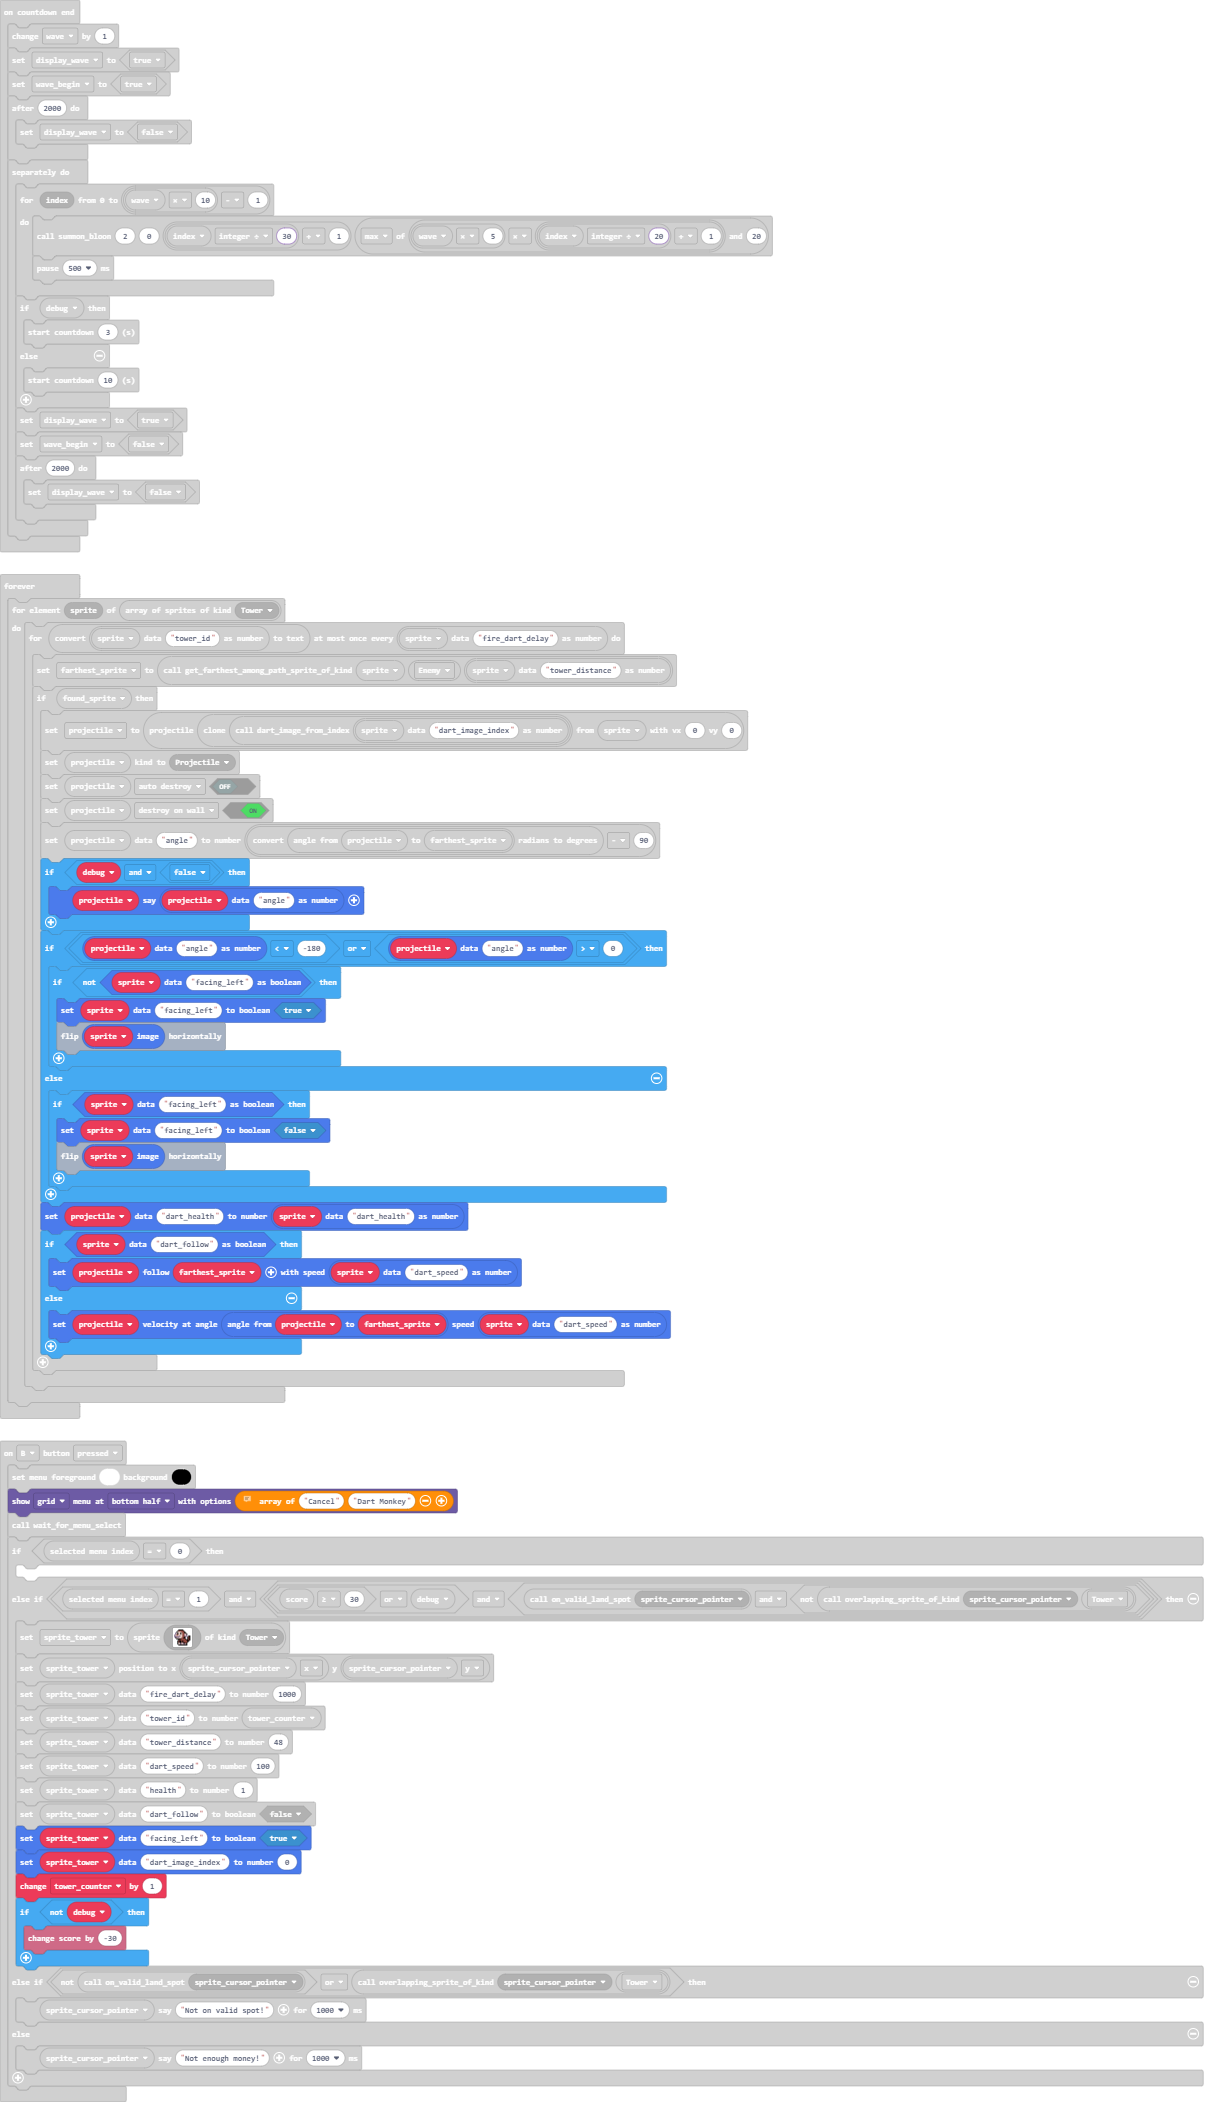
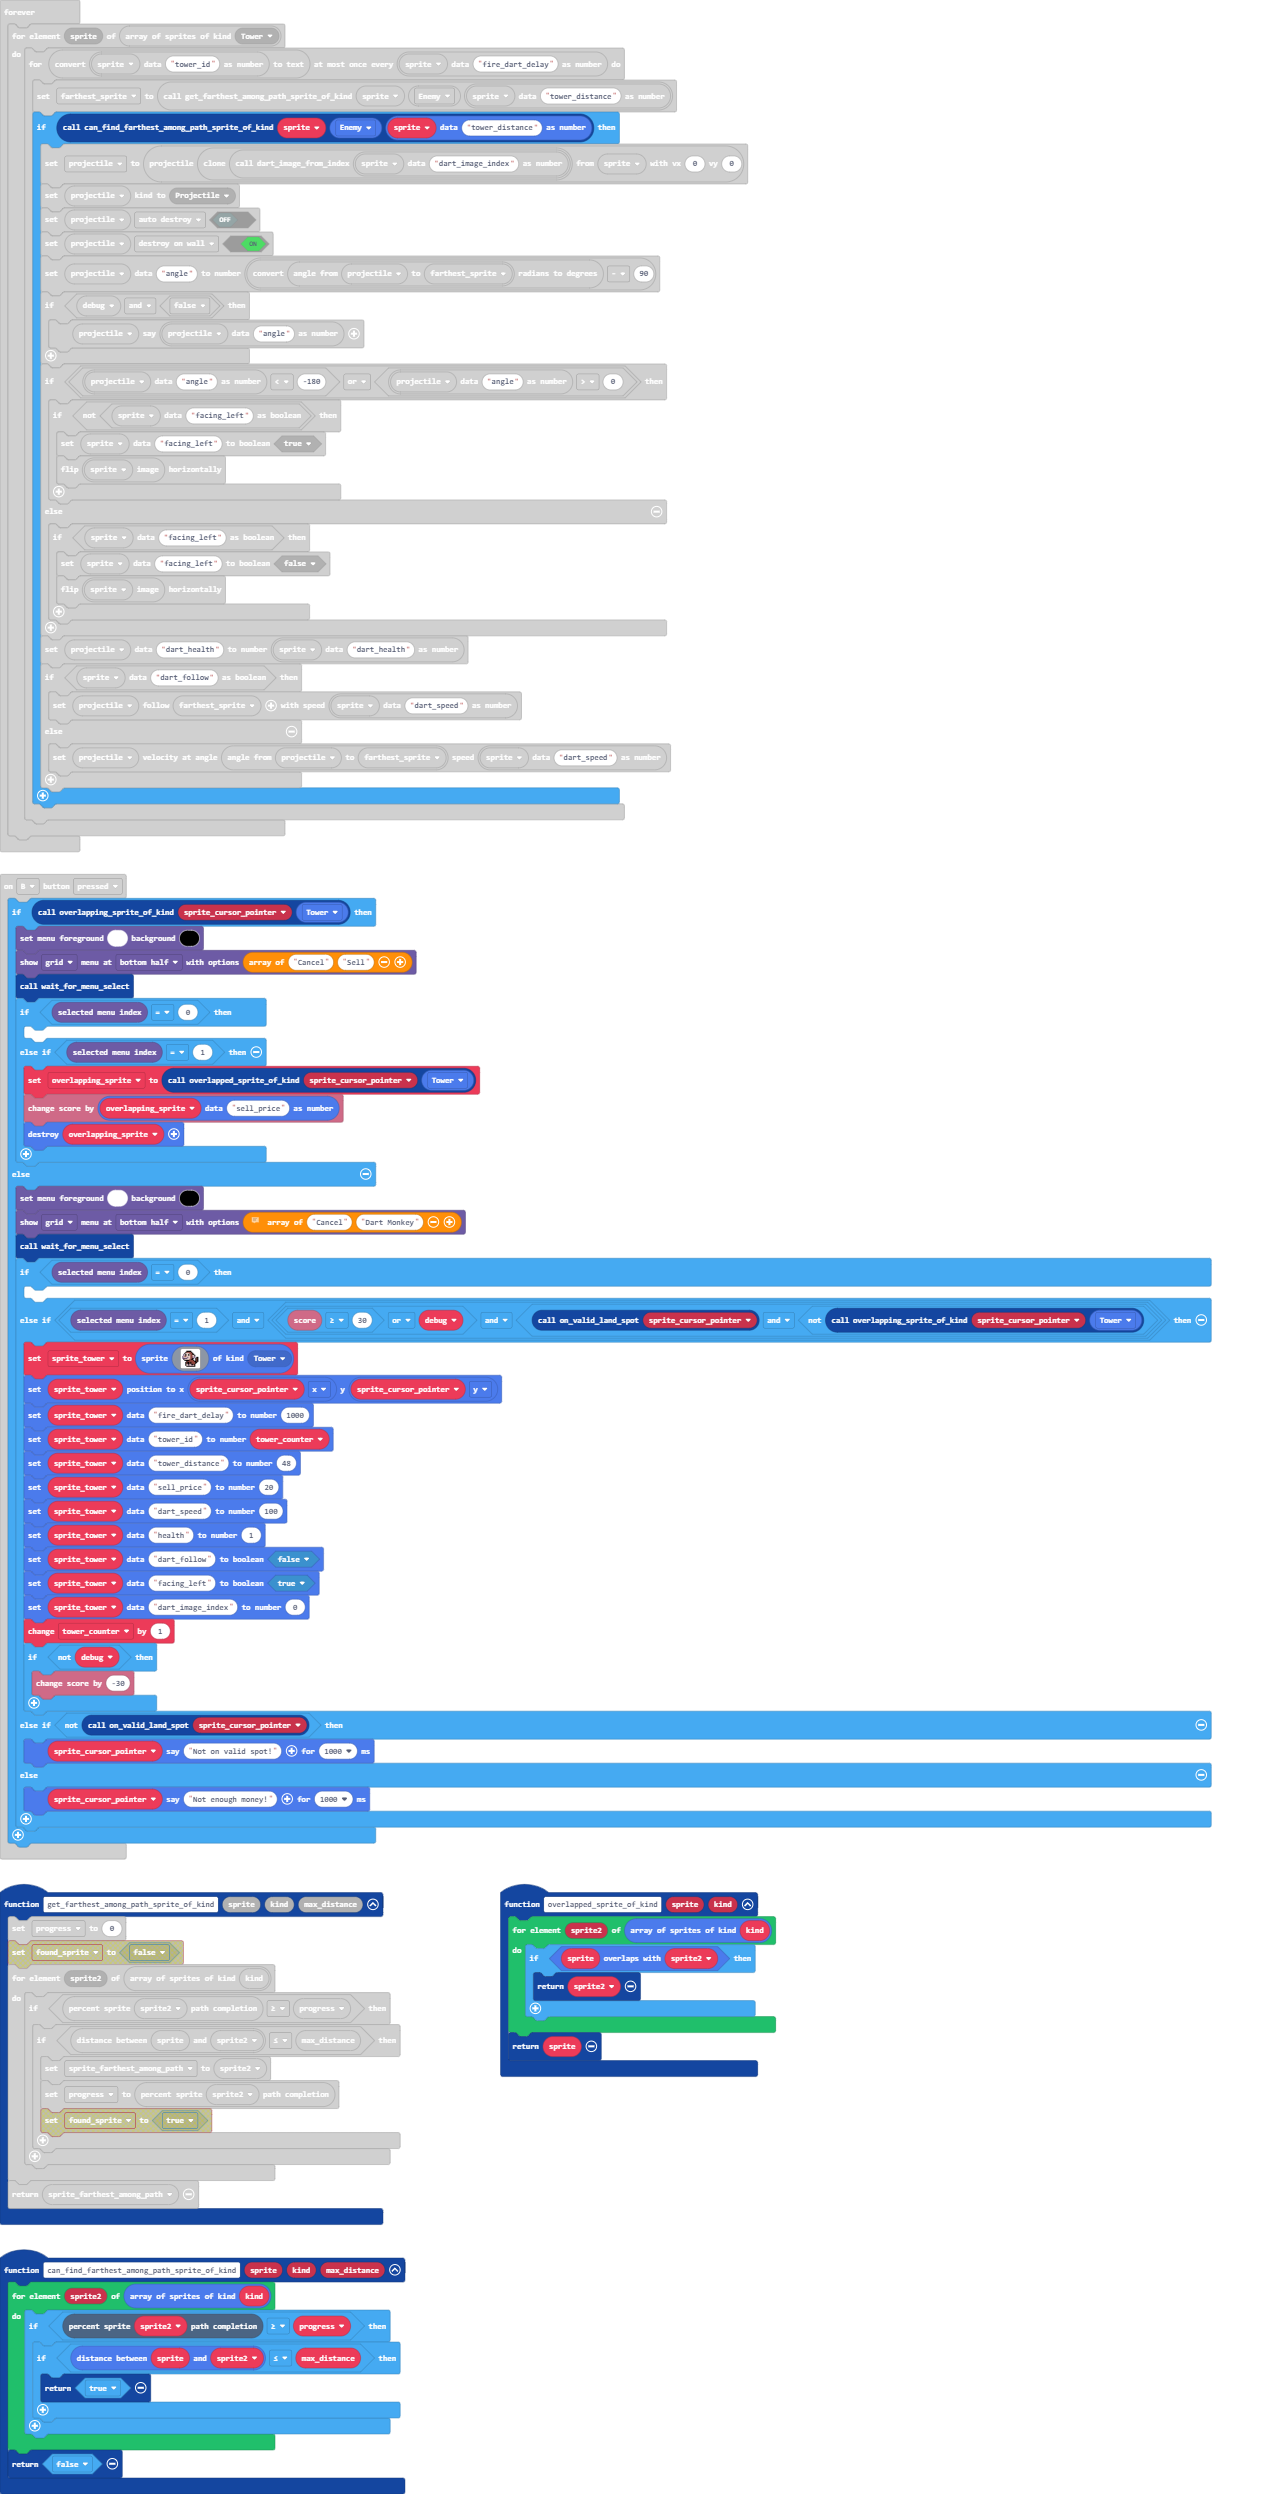
Sell your towers!

diff --git a/main.ts b/main.ts
@@ -31,48 +31,62 @@ function overlapping_sprite_of_kind (sprite: Sprite, kind: number) {
     return false
 }
 controller.B.onEvent(ControllerButtonEvent.Pressed, function () {
-    blockMenu.setColors(1, 15)
-    // https://bloons.fandom.com/wiki/Tower_price_lists#Bloons_TD_5:~:text=%24.-,Bloons%20TD%205
-    blockMenu.showMenu(["Cancel", "Dart Monkey"], MenuStyle.Grid, MenuLocation.BottomHalf)
-    wait_for_menu_select()
-    if (blockMenu.selectedMenuIndex() == 0) {
-    	
-    } else if (blockMenu.selectedMenuIndex() == 1 && ((info.score() >= 30 || debug) && (on_valid_land_spot(sprite_cursor_pointer) && !(overlapping_sprite_of_kind(sprite_cursor_pointer, SpriteKind.Tower))))) {
-        sprite_tower = sprites.create(img`
-            . . . . f f f f f . . . . . . . 
-            . . . f e e e e e f . . . . . . 
-            . . f d d d d e e e f . . . . . 
-            . c d f d d f d e e f f . . . . 
-            . c d f d d f d e e d d f . . . 
-            c d e e d d d d e e b d c . . . 
-            c d d d d c d d e e b d c . f f 
-            c c c c c d d d e e f c . f e f 
-            . f d d d d d e e f f . . f e f 
-            . . f f f f f e e e e f . f e f 
-            . . . . f e e e e e e e f f e f 
-            . . . f e f f e f e e e e f f . 
-            . . . f e f f e f e e e e f . . 
-            . . . f d b f d b f f e f . . . 
-            . . . f d d c d d b b d f . . . 
-            . . . . f f f f f f f f f . . . 
-            `, SpriteKind.Tower)
-        sprite_tower.setPosition(sprite_cursor_pointer.x, sprite_cursor_pointer.y)
-        sprites.setDataNumber(sprite_tower, "fire_dart_delay", 1000)
-        sprites.setDataNumber(sprite_tower, "tower_id", tower_counter)
-        sprites.setDataNumber(sprite_tower, "tower_distance", 48)
-        sprites.setDataNumber(sprite_tower, "dart_speed", 100)
-        sprites.setDataNumber(sprite_tower, "health", 1)
-        sprites.setDataBoolean(sprite_tower, "dart_follow", false)
-        sprites.setDataBoolean(sprite_tower, "facing_left", true)
-        sprites.setDataNumber(sprite_tower, "dart_image_index", 0)
-        tower_counter += 1
-        if (!(debug)) {
-            info.changeScoreBy(-30)
+    if (overlapping_sprite_of_kind(sprite_cursor_pointer, SpriteKind.Tower)) {
+        blockMenu.setColors(1, 15)
+        blockMenu.showMenu(["Cancel", "Sell"], MenuStyle.Grid, MenuLocation.BottomHalf)
+        wait_for_menu_select()
+        if (blockMenu.selectedMenuIndex() == 0) {
+        	
+        } else if (blockMenu.selectedMenuIndex() == 1) {
+            overlapping_sprite = overlapped_sprite_of_kind(sprite_cursor_pointer, SpriteKind.Tower)
+            info.changeScoreBy(sprites.readDataNumber(overlapping_sprite, "sell_price"))
+            overlapping_sprite.destroy()
         }
-    } else if (!(on_valid_land_spot(sprite_cursor_pointer)) || overlapping_sprite_of_kind(sprite_cursor_pointer, SpriteKind.Tower)) {
-        sprite_cursor_pointer.say("Not on valid spot!", 1000)
     } else {
-        sprite_cursor_pointer.say("Not enough money!", 1000)
+        blockMenu.setColors(1, 15)
+        // https://bloons.fandom.com/wiki/Tower_price_lists#Bloons_TD_5:~:text=%24.-,Bloons%20TD%205
+        blockMenu.showMenu(["Cancel", "Dart Monkey"], MenuStyle.Grid, MenuLocation.BottomHalf)
+        wait_for_menu_select()
+        if (blockMenu.selectedMenuIndex() == 0) {
+        	
+        } else if (blockMenu.selectedMenuIndex() == 1 && ((info.score() >= 30 || debug) && (on_valid_land_spot(sprite_cursor_pointer) && !(overlapping_sprite_of_kind(sprite_cursor_pointer, SpriteKind.Tower))))) {
+            sprite_tower = sprites.create(img`
+                . . . . f f f f f . . . . . . . 
+                . . . f e e e e e f . . . . . . 
+                . . f d d d d e e e f . . . . . 
+                . c d f d d f d e e f f . . . . 
+                . c d f d d f d e e d d f . . . 
+                c d e e d d d d e e b d c . . . 
+                c d d d d c d d e e b d c . f f 
+                c c c c c d d d e e f c . f e f 
+                . f d d d d d e e f f . . f e f 
+                . . f f f f f e e e e f . f e f 
+                . . . . f e e e e e e e f f e f 
+                . . . f e f f e f e e e e f f . 
+                . . . f e f f e f e e e e f . . 
+                . . . f d b f d b f f e f . . . 
+                . . . f d d c d d b b d f . . . 
+                . . . . f f f f f f f f f . . . 
+                `, SpriteKind.Tower)
+            sprite_tower.setPosition(sprite_cursor_pointer.x, sprite_cursor_pointer.y)
+            sprites.setDataNumber(sprite_tower, "fire_dart_delay", 1000)
+            sprites.setDataNumber(sprite_tower, "tower_id", tower_counter)
+            sprites.setDataNumber(sprite_tower, "tower_distance", 48)
+            sprites.setDataNumber(sprite_tower, "sell_price", 20)
+            sprites.setDataNumber(sprite_tower, "dart_speed", 100)
+            sprites.setDataNumber(sprite_tower, "health", 1)
+            sprites.setDataBoolean(sprite_tower, "dart_follow", false)
+            sprites.setDataBoolean(sprite_tower, "facing_left", true)
+            sprites.setDataNumber(sprite_tower, "dart_image_index", 0)
+            tower_counter += 1
+            if (!(debug)) {
+                info.changeScoreBy(-30)
+            }
+        } else if (!(on_valid_land_spot(sprite_cursor_pointer))) {
+            sprite_cursor_pointer.say("Not on valid spot!", 1000)
+        } else {
+            sprite_cursor_pointer.say("Not enough money!", 1000)
+        }
     }
 })
 spriteutils.createRenderable(200, function (screen2) {
@@ -85,6 +99,14 @@ spriteutils.createRenderable(200, function (screen2) {
         }
     }
 })
+function overlapped_sprite_of_kind (sprite: Sprite, kind: number) {
+    for (let sprite2 of sprites.allOfKind(kind)) {
+        if (sprite.overlapsWith(sprite2)) {
+            return sprite2
+        }
+    }
+    return sprite
+}
 info.onCountdownEnd(function () {
     wave += 1
     display_wave = true
@@ -337,17 +359,25 @@ function set_ui_icons () {
 }
 function get_farthest_among_path_sprite_of_kind (sprite: Sprite, kind: number, max_distance: number) {
     progress = 0
-    found_sprite = false
     for (let sprite2 of sprites.allOfKind(kind)) {
         if (scene.spritePercentPathCompleted(sprite2) >= progress) {
             if (spriteutils.distanceBetween(sprite, sprite2) <= max_distance) {
                 sprite_farthest_among_path = sprite2
                 progress = scene.spritePercentPathCompleted(sprite2)
-                found_sprite = true
             }
         }
     }
     return sprite_farthest_among_path
+}
+function can_find_farthest_among_path_sprite_of_kind (sprite: Sprite, kind: number, max_distance: number) {
+    for (let sprite2 of sprites.allOfKind(kind)) {
+        if (scene.spritePercentPathCompleted(sprite2) >= progress) {
+            if (spriteutils.distanceBetween(sprite, sprite2) <= max_distance) {
+                return true
+            }
+        }
+    }
+    return false
 }
 function summon_bloon (col: number, row: number, health: number, speed: number) {
     sprite_bloon = sprites.create(bloon_image_from_health(health), SpriteKind.Enemy)
@@ -376,7 +406,6 @@ let projectile: Sprite = null
 let farthest_sprite: Sprite = null
 let sprite_bloon: Sprite = null
 let sprite_farthest_among_path: Sprite = null
-let found_sprite = false
 let progress = 0
 let bloon_images: Image[] = []
 let dart_images: Image[] = []
@@ -384,6 +413,7 @@ let bloon_path: tiles.Location[] = []
 let sprite_cursor: Sprite = null
 let menu_option_selected = false
 let sprite_tower: Sprite = null
+let overlapping_sprite: Sprite = null
 let sprite_cursor_pointer: Sprite = null
 let tower_counter = 0
 let wave_begin = false
@@ -404,7 +434,7 @@ forever(function () {
     for (let sprite of sprites.allOfKind(SpriteKind.Tower)) {
         timer.throttle(convertToText(sprites.readDataNumber(sprite, "tower_id")), sprites.readDataNumber(sprite, "fire_dart_delay"), function () {
             farthest_sprite = get_farthest_among_path_sprite_of_kind(sprite, SpriteKind.Enemy, sprites.readDataNumber(sprite, "tower_distance"))
-            if (found_sprite) {
+            if (can_find_farthest_among_path_sprite_of_kind(sprite, SpriteKind.Enemy, sprites.readDataNumber(sprite, "tower_distance"))) {
                 projectile = sprites.createProjectileFromSprite(dart_image_from_index(sprites.readDataNumber(sprite, "dart_image_index")).clone(), sprite, 0, 0)
                 projectile.setKind(SpriteKind.Projectile)
                 projectile.setFlag(SpriteFlag.AutoDestroy, false)
